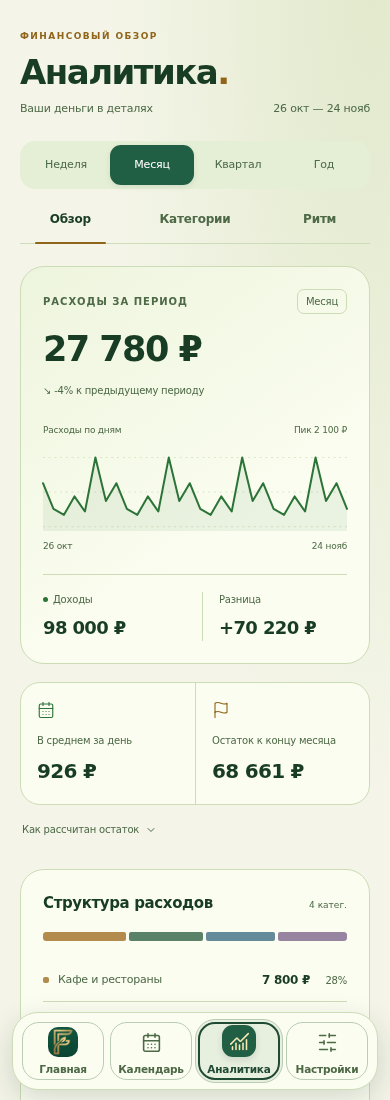
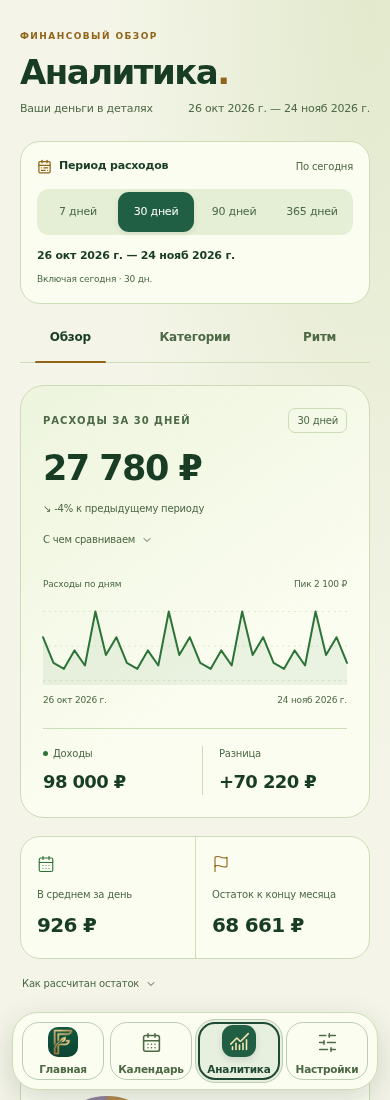
Refine behavioral insights, localize expense categories and clarify periods

diff --git a/behavior.js b/behavior.js
@@ -10,14 +10,21 @@
   const money=n=>`${Number(n).toLocaleString('ru-RU',{maximumFractionDigits:2})} ₽`;
   const date=d=>{if(FintexMath.ordinal(d)===null)return '—';const [y,m,day]=String(d).split('-');return `${day}.${m}.${y}`;};
   const period=(from,to)=>`${date(from)} — ${date(to)}`;
-  function evidence(e){return `<p class="behavior-evidence">Опора: ${e.samples} ${esc(e.unit)} · ${period(e.from,e.to)}<br>${esc(e.level)}. Это не статистическая гарантия.</p>`;}
+  function evidence(e, key='scenario'){return `<details class="behavior-proof" data-behavior-detail="${esc(key)}"><summary><i data-lucide="scan-text" aria-hidden="true"></i>Основа: ${e.samples} ${esc(e.unit)}<i data-lucide="chevron-down" aria-hidden="true"></i></summary><p class="behavior-evidence">${period(e.from,e.to)}<br>${esc(e.level)}. Это не статистическая гарантия.</p></details>`;}
+
   function feedback(id,data){
-    const f=data.feedback?.[id];return `<div class="behavior-feedback" role="group" aria-label="Оценить подсказку"><button type="button" data-behavior-useful="${esc(id)}" aria-pressed="${!!f?.useful}">${f?.useful?'✓ Полезно':'Полезно'}</button><button type="button" data-behavior-dismiss="${esc(id)}">Не актуально · скрыть на 30 дней</button></div>`;
+    const f=data.feedback?.[id];return `<div class="behavior-feedback" role="group" aria-label="Оценить подсказку"><button type="button" data-behavior-useful="${esc(id)}" aria-pressed="${!!f?.useful}">${f?.useful?'✓ Полезно':'Полезно'}</button><button type="button" data-behavior-dismiss="${esc(id)}" aria-label="Не актуально — скрыть на 30 дней">Не актуально</button></div>`;
   }
   function profile(result,data){
     const p=result.profile;
-    return `<div class="behavior-profile" aria-label="Профиль наблюдений"><div><span>Покупки выше привычного</span><strong>${p.unusual?`${p.unusual.count} за последние 30 дней`:'Недостаточно истории'}</strong><small>${p.unusual?`${period(p.unusual.from,p.unusual.to)} · ${p.unusual.comparable} покупок имеют базу сравнения. Не оценка импульсивности.`:'Нужны 30 расходов, история от 42 дней и сопоставимые покупки в категориях.'}</small></div><div><span>Разброс записанных расходов</span><strong>${p.spending?`${p.spending.spread}% между месяцами`:'Пока не оцениваем'}</strong><small>${p.spending?`${period(p.spending.from,p.spending.to)} · ${p.spending.months} полных месяцев. Описательный показатель расходов на день с записями, не оценка характера.`:'Нужны 3 полных месяца хотя бы с 12 днями расходов в каждом.'}</small></div><div><span>Регулярность пополнения подушки</span><strong>${p.saving?`${p.saving.positive} из ${p.saving.months} месяцев с чистым пополнением`:'Начинаем наблюдение'}</strong><small>${p.saving?`${period(p.saving.from,p.saving.to)} · Только наблюдаемые действия с подушкой внутри FINTEX. Внешние накопления не видны; полнота не подтверждена.`:`Учёт действий ведётся с ${date(data.observedSince||today())}; выводы — после 3 полных месяцев. Текущая сумма подушки не заменяет историю.`}</small></div></div>`;
+    const rows=[
+      {key:'unusual',icon:'scan-line',label:'Покупки выше привычного',value:p.unusual?`${p.unusual.count} за последние 30 дней`:'Недостаточно истории',copy:p.unusual?`${period(p.unusual.from,p.unusual.to)} · ${p.unusual.comparable} покупок имеют базу сравнения. Не оценка импульсивности.`:'Нужны 30 расходов, история от 42 дней и сопоставимые покупки в категориях.'},
+      {key:'spending',icon:'chart-no-axes-combined',label:'Разброс расходов',value:p.spending?`${p.spending.spread}% между месяцами`:'Пока не оцениваем',copy:p.spending?`${period(p.spending.from,p.spending.to)} · ${p.spending.months} полных месяцев. Описательный показатель расходов на день с записями, не оценка характера.`:'Нужны 3 полных месяца хотя бы с 12 днями расходов в каждом.'},
+      {key:'saving',icon:'sprout',label:'Пополнение подушки',value:p.saving?`${p.saving.positive} из ${p.saving.months} месяцев`:'Начинаем наблюдение',copy:p.saving?`${period(p.saving.from,p.saving.to)} · Месяцы с чистым пополнением. Только наблюдаемые действия с подушкой в приложении. Внешние накопления не видны; полнота не подтверждена.`:`Учёт действий ведётся с ${date(data.observedSince||today())}; выводы — после 3 полных месяцев. Текущая сумма подушки не заменяет историю.`}
+    ];
+    return `<div class="behavior-profile" aria-label="Профиль наблюдений">${rows.map(r=>`<details data-behavior-detail="profile-${r.key}"><summary><span class="behavior-profile-icon" aria-hidden="true"><i data-lucide="${r.icon}"></i></span><span class="behavior-profile-text"><span>${r.label}</span><strong>${r.value}</strong></span><i data-lucide="chevron-down" class="behavior-profile-chevron" aria-hidden="true"></i></summary><p class="behavior-evidence">${r.copy}</p></details>`).join('')}</div>`;
   }
+
   function planner(result,data){
     const p=result.planning,remaining=data.plan?.remaining??100000,monthly=data.plan?.monthly??'';
     let estimate='';
@@ -27,7 +34,7 @@
       if(Number(monthly)>p.monthly)estimate+='<p class="behavior-note">Ваш темп выше этого ориентира. Он может быть достижим — проверьте будущие доходы и обязательства, которых нет в журнале.</p>';
     }else if(result.planningReason==='nonpositive')estimate='<p class="behavior-copy">Истории уже достаточно для сравнения, но положительный ежемесячный темп по ней не подтверждён. Не будем рекомендовать сумму, которую эти записи не поддерживают. Вы можете сохранить собственный план и проверить его после новых наблюдений.</p>';
     else estimate='<p class="behavior-copy">Для персонального ориентира пока мало истории: нужны 3 полных месяца с поступлениями и хотя бы 12 днями расходов, либо 3 месяца наблюдения за подушкой. Пока можно сохранить собственный план — мы не будем выдавать его за рекомендацию.</p>';
-    return `<details class="behavior-planner"><summary>Проверить темп накоплений</summary><p class="behavior-copy">Мы не знаем, почему прошлый план изменился. Не делаем вывод «вы перестали откладывать из-за жёстких ограничений» без ваших данных.</p><form id="behavior-plan-form"><label>Осталось накопить, ₽<input name="remaining" inputmode="decimal" value="${esc(remaining)}" required></label><label>Ваш темп в месяц, ₽<input name="monthly" inputmode="decimal" value="${esc(monthly)}" placeholder="Укажите комфортную сумму" required></label><button type="submit" class="behavior-primary">Сохранить мой план</button></form>${estimate}${data.plan?`<p class="behavior-evidence">Ваш план сохранён ${date(data.plan.date)}. ${data.planChanges>1?`Вы явно меняли его ${Math.min(data.planChanges-1,999)} раз; это не считается ошибкой.`:''} Баланс и цель в разделе подушки не меняются.</p>`:''}</details>`;
+    return `<details class="behavior-planner" data-behavior-detail="planner"><summary>Проверить темп накоплений</summary><p class="behavior-copy">Сравните свой план с доступной историей. Это сценарий для размышления, не обязательство и не гарантия результата.</p><form id="behavior-plan-form"><label>Осталось накопить, ₽<input name="remaining" inputmode="decimal" value="${esc(remaining)}" required></label><label>Ваш темп в месяц, ₽<input name="monthly" inputmode="decimal" value="${esc(monthly)}" placeholder="Укажите комфортную сумму" required></label><button type="submit" class="behavior-primary">Сохранить мой план</button></form>${estimate}${data.plan?`<p class="behavior-evidence">Ваш план сохранён ${date(data.plan.date)}. ${data.planChanges>1?`Вы явно меняли его ${Math.min(data.planChanges-1,999)} раз; это не считается ошибкой.`:''} Баланс и цель в разделе подушки не меняются.</p>`:''}</details>`;
   }
   function entryHTML(){
     const data=initial();
@@ -38,9 +45,9 @@
     if(current){const horizon=FintexMath.ordinal(state.payday)===null?0:FintexMath.ordinal(state.payday)-FintexMath.ordinal(today());const estimate=horizon>0&&horizon<=45?` Если такой темп записанных трат сохранится ещё ${horizon} дней до указанной вами даты зарплаты, это около ${money(FintexMath.money(current.dailyRate*horizon))} расходов. Будущие доходы и изменения планов не учтены.`:'';
       currentHTML=`<article class="behavior-scenario"><span class="behavior-tag">Похожий сценарий сейчас</span><h4>Первые дни после зарплаты</h4><p>За ${current.days} дня записано ${money(current.spent)} — ${current.share}% отмеченной зарплаты. В сравнимые дни прошлых интервалов медиана — ${money(current.typical)}.${estimate}</p>${evidence(current.evidence)}<p class="behavior-note">Условный сценарий, не прогноз остатка и не предупреждение о неизбежной нехватке денег.</p></article>`;
     }
-    const observations=result.insights.map(i=>`<article class="behavior-insight"><span class="behavior-tag">Повторяющаяся закономерность</span><h4>${esc(i.title)}</h4><p>${esc(i.text)}</p>${evidence(i.evidence)}<p class="behavior-note">${esc(i.suggestion)}</p>${feedback(i.id,data)}</article>`).join('');
-    const unusual=result.unusual.map(t=>`<article class="behavior-unusual"><h4>${esc(t.merchant)}</h4><p class="money-val">${money(t.amount)} · ${date(t.date)}. Примерно в ${t.multiple.toFixed(1)} раза больше медианы ${money(t.baseline)} в этой категории.</p><p class="behavior-evidence">Сравнение с ${t.count} более ранними покупками · ${period(t.from,t.date)}. Это необычная сумма, не доказательство импульсивности.</p><button type="button" data-behavior-planned="${esc(t.id)}">Было запланировано</button></article>`).join('');
-    return `<section id="fintex-behavior" class="behavior-panel"><div class="behavior-heading"><span class="behavior-tag">FINTEX · Поведенческий интеллект</span><h3>Понять свой финансовый ритм</h3><p class="behavior-copy">Не характер и не диагноз — только наблюдения по вашим записям.</p></div><p class="behavior-period">${period(result.from,result.to)} · ${result.records} записей · ${result.activeDays} дней с расходами<br>Окно наблюдений — до 183 дней, независимо от фильтра аналитики.</p>${profile(result,data)}${currentHTML}<div class="behavior-insights">${observations||'<p class="behavior-empty">Повторяющиеся закономерности пока не подтверждены. Пустой список — не оценка вашего поведения. По мере появления сопоставимых недель и месяцев здесь появятся объяснимые наблюдения.</p>'}</div>${result.hiddenCount?`<p class="behavior-evidence">${result.hiddenCount} подсказок скрыто по вашему выбору.</p><button type="button" data-behavior-restore>Показать скрытые подсказки</button>`:''}${unusual?`<details class="behavior-unusual-list" open><summary>Покупки выше привычного</summary>${unusual}</details>`:''}${planner(result,data)}<p class="behavior-footnote">${esc(result.caveat)} Реакции меняют порядок и частоту подсказок, а не достоверность фактов. Молчание не считается согласием.</p><details class="behavior-settings"><summary>Данные и управление</summary><p class="behavior-copy">Вычисления и обратная связь хранятся в этом браузере, не отправляются внешнему ИИ. Облачный журнал может быть неполным. История пополнений подушки начинается после включения функции; прошлое не восстанавливаем по текущему остатку.</p><div class="behavior-feedback"><button type="button" data-behavior-disable>Отключить наблюдения</button><button type="button" data-behavior-reset>Сбросить память подсказок</button></div><p class="behavior-evidence">Сброс удалит только реакции, отметки «запланировано», план и историю наблюдений за подушкой. Суммы на счетах и операции останутся.</p></details><p class="behavior-status" role="status" aria-live="polite"></p></section>`;
+    const observations=result.insights.map((i,index)=>`<article class="behavior-insight"><div class="behavior-insight-heading"><span class="behavior-observation-number">${String(index+1).padStart(2,'0')}</span><span class="behavior-tag">Наблюдение по записям</span></div><h4>${esc(i.title)}</h4><p>${esc(i.text)}</p>${evidence(i.evidence, i.id)}<p class="behavior-note">${esc(i.suggestion)}</p>${feedback(i.id,data)}</article>`).join('');
+    const unusual=result.unusual.map(t=>`<article class="behavior-unusual"><h4>${esc(t.merchant)}</h4><p class="money-val">${money(t.amount)} · ${date(t.date)}. Примерно в ${t.multiple.toFixed(1).replace('.',',')} раза больше медианы ${money(t.baseline)} в этой категории.</p><p class="behavior-evidence">Сравнение с ${t.count} более ранними покупками · ${period(t.from,t.date)}. Это необычная сумма, не доказательство импульсивности.</p><button type="button" data-behavior-planned="${esc(t.id)}">Было запланировано</button></article>`).join('');
+    return `<section id="fintex-behavior" class="behavior-panel"><div class="behavior-heading"><div class="behavior-title-line"><span class="behavior-emblem" aria-hidden="true"><i data-lucide="sparkles"></i></span><span class="behavior-tag">Личные наблюдения</span></div><h3>Поведенческий<br>интеллект<span aria-hidden="true">.</span></h3><p class="behavior-copy">Замечаем повторения в расходах.<br>Без оценок характера и диагнозов.</p></div><div class="behavior-window"><i data-lucide="calendar-range" aria-hidden="true"></i><div><strong>${period(result.from,result.to)}</strong><span>Своя история до 183 дней · не зависит от периода выше</span></div></div><div class="behavior-metrics"><div><strong>${result.insights.length}</strong><span>наблюдений</span></div><div><strong>${result.records}</strong><span>записей</span></div><div><strong>${result.activeDays}</strong><span>дней с тратами</span></div></div>${profile(result,data)}${currentHTML}<div class="behavior-insights">${observations||'<p class="behavior-empty">Повторяющиеся закономерности пока не подтверждены. Пустой список — не оценка вашего поведения. По мере появления сопоставимых недель и месяцев здесь появятся объяснимые наблюдения.</p>'}</div>${result.hiddenCount?`<p class="behavior-evidence">${result.hiddenCount} подсказок скрыто по вашему выбору.</p><button type="button" data-behavior-restore>Показать скрытые подсказки</button>`:''}${unusual?`<details class="behavior-unusual-list" data-behavior-detail="unusual" open><summary>Покупки выше привычного</summary>${unusual}</details>`:''}${planner(result,data)}<details class="behavior-method" data-behavior-detail="method"><summary>Как читать наблюдения</summary><p class="behavior-footnote">${esc(result.caveat)} Реакции меняют порядок и частоту подсказок, а не достоверность фактов. Молчание не считается согласием.</p></details><details class="behavior-settings" data-behavior-detail="settings"><summary>Данные и управление</summary><p class="behavior-copy">Вычисления и обратная связь хранятся в этом браузере, не отправляются внешнему ИИ. Облачный журнал может быть неполным. История пополнений подушки начинается после включения функции; прошлое не восстанавливаем по текущему остатку.</p><div class="behavior-feedback"><button type="button" data-behavior-disable>Отключить наблюдения</button><button type="button" data-behavior-reset>Сбросить память подсказок</button></div><p class="behavior-evidence">Сброс удалит только реакции, отметки «запланировано», план и историю наблюдений за подушкой. Суммы на счетах и операции останутся.</p></details><p class="behavior-status" role="status" aria-live="polite"></p></section>`;
   }
   function rerender(note){window.FintexAnalyticsPro?.render();const el=document.querySelector('#fintex-behavior .behavior-status');if(el)el.textContent=note;}
   function bind(container){

diff --git a/analytics_pro.js b/analytics_pro.js
@@ -5,10 +5,10 @@
   'use strict';
 
   const PERIODS = [
-    { id: 'week', label: 'Неделя', days: 7 },
-    { id: 'month', label: 'Месяц', days: 30 },
-    { id: 'quarter', label: 'Квартал', days: 90 },
-    { id: 'year', label: 'Год', days: 365 }
+    { id: 'week', label: '7 дней', days: 7 },
+    { id: 'month', label: '30 дней', days: 30 },
+    { id: 'quarter', label: '90 дней', days: 90 },
+    { id: 'year', label: '365 дней', days: 365 }
   ];
   const SUBTABS = [
     { id: 'overview', label: 'Обзор' },
@@ -75,7 +75,11 @@
     return `${Math.round(Number(num) || 0).toLocaleString('ru-RU')} ${currency || '₽'}`;
   }
   function categoryMeta(rawName) {
-    const raw = String(rawName || 'Прочее').trim();
+    const aliases = { food: 'Продукты', taxi: 'Транспорт', cafe: 'Кафе и рестораны', fun: 'Развлечения', subs: 'Подписки', shop: 'Покупки', health: 'Здоровье', other: 'Прочее', income: 'Доход' };
+    const original = String(rawName || 'Прочее').trim();
+    const key = original.toLowerCase();
+    const raw = Object.prototype.hasOwnProperty.call(aliases, key) ? aliases[key] : original;
+    if (raw.toLocaleLowerCase('ru-RU') === 'подписки') return { name: 'Подписки', icon: 'repeat', color: 'var(--ap-category-7)' };
     const normalized = raw.toLocaleLowerCase('ru-RU');
     if (normalized === 'доход' || normalized === 'income') return { name: 'Доход', icon: 'wallet', color: COLORS.mint, bg: 'rgba(0,214,195,.13)' };
     const match = CATEGORY_META.find(meta => meta.keys.some(key => normalized.includes(key)));
@@ -139,7 +143,7 @@
     const start=new Date(`${startKey}T00:00:00`);
     const prevStart=new Date(`${prevKey}T00:00:00`);
     let spent = 0, income = 0, prevSpent = 0;
-    const byCat = {};
+    const byCat = Object.create(null);
     const byWeekday = [0, 0, 0, 0, 0, 0, 0];
     const byDate = {};
     const activeDates = new Set();
@@ -163,7 +167,7 @@
         byWeekday[date.getDay()] = M.add(byWeekday[date.getDay()],amount);
         if (!byDate[dateKey]) byDate[dateKey] = { total: 0, list: [] };
         byDate[dateKey].total = M.add(byDate[dateKey].total,amount);
-        byDate[dateKey].list.push({ title: tx.merchant || tx.title || tx.note || tx.category || 'Покупка', amount, category: tx.category || 'Прочее' });
+        byDate[dateKey].list.push({ title: tx.merchant || tx.title || tx.note || categoryMeta(tx.category).name || 'Покупка', amount, category: tx.category || 'Прочее' });
         const meta = categoryMeta(tx.category || 'Прочее');
         const key = meta.name;
         if (!byCat[key]) byCat[key] = { total: 0, items: [], meta };
@@ -208,9 +212,11 @@
     return { st, currency, now, spent, income, net: M.add(income,-spent), deltaPct, prevSpent, burnRate, projectedBalance, categories, insights, byWeekday, weekdayNames, byDate, activeDates, currentTxs, allTxs: M.transactions(st.transactions,null,today) };
   }
 
-  function renderPeriodControls() {
-    return `<div class="ftx-ap-pills" role="group" aria-label="Период аналитики">${PERIODS.map(p => `<button type="button" class="ftx-ap-pill ${p.id === activePeriod ? 'active' : ''}" data-period="${p.id}" aria-pressed="${p.id === activePeriod}">${p.label}</button>`).join('')}</div>`;
+  function renderPeriodControls(data, period) {
+    const range = periodRange(data, period);
+    return `<div class="ap-period-panel"><div class="ap-period-title"><span><i data-lucide="calendar-range" aria-hidden="true"></i>Период расходов</span><span>По сегодня</span></div><div class="ftx-ap-pills" role="group" aria-label="Период аналитики">${PERIODS.map(p => `<button type="button" class="ftx-ap-pill ${p.id === activePeriod ? 'active' : ''}" data-period="${p.id}" aria-pressed="${p.id === activePeriod}">${p.label}</button>`).join('')}</div><div class="ap-period-dates"><strong>${range.first} — ${range.last}</strong><span>Включая сегодня · ${period.days} дн.</span></div></div>`;
   }
+
   function renderTabs() {
     return `<div class="ftx-ap-tabs" role="tablist" aria-label="Разделы аналитики">${SUBTABS.map(t => `<button type="button" class="ftx-ap-tab ${t.id === activeSubtab ? 'active' : ''}" data-subtab="${t.id}" role="tab" aria-selected="${t.id === activeSubtab}">${t.label}</button>`).join('')}</div>`;
   }
@@ -218,7 +224,7 @@
   function periodRange(data, period) {
     const end = window.FintexMath.key(data.now);
     const start = window.FintexMath.shift(end, 1 - period.days);
-    const label = key => new Date(`${key}T12:00:00`).toLocaleDateString('ru-RU', { day: 'numeric', month: 'short' }).replace('.', '');
+    const label = key => new Date(`${key}T12:00:00`).toLocaleDateString('ru-RU', { day: 'numeric', month: 'short', year: 'numeric' }).replace('.', '');
     return { start, end, first: label(start), last: label(end) };
   }
 
@@ -237,18 +243,33 @@
     </figure>`;
   }
 
+  function renderDistribution(data) {
+    if (!data.categories.length) return '<div class="ftx-ap-empty"><i data-lucide="chart-pie" aria-hidden="true"></i><strong>У каждой траты будет своё место</strong><span>Добавьте расходы, чтобы увидеть их распределение по категориям</span></div>';
+    let offset = 0;
+    const segments = data.categories.map(cat => {
+      const circle = `<circle class="ap-donut-segment" cx="64" cy="64" r="52" pathLength="100" stroke="${cat.meta.color}" stroke-dasharray="${cat.pct} ${100 - cat.pct}" stroke-dashoffset="${-offset}"/>`;
+      offset += cat.pct;
+      return circle;
+    }).join('');
+    const leader = data.categories[0];
+    return `<div class="ap-distribution-visual"><div class="ap-donut" role="img" aria-label="Распределение записанных расходов по ${data.categories.length} категориям"><svg viewBox="0 0 128 128" aria-hidden="true"><circle class="ap-donut-track" cx="64" cy="64" r="52"/>${segments}</svg><div class="ap-donut-centre" aria-hidden="true"><strong>${data.categories.length}</strong><span>категорий</span></div></div><div class="ap-distribution-leader"><span>Больше всего</span><strong>${esc(leader.name)}</strong><div><b>${Math.round(leader.pct)}%</b><span>от расходов</span></div></div></div>`;
+  }
+
   function renderOverview(data, period) {
     const deltaLabel = data.prevSpent > 0
       ? `${data.deltaPct > 0 ? '+' : ''}${data.deltaPct}% к предыдущему периоду`
       : 'Пока нет данных для сравнения';
     const deltaClass = data.deltaPct > 0 ? 'warn' : '';
+    const range = periodRange(data, period);
+    const previous = periodRange({ now: new Date(`${FintexMath.shift(range.start, -1)}T12:00:00`) }, period);
     const topCats = data.categories.slice(0, 4).map(cat => `
-      <div class="ap-category-row"><span class="ap-category-dot" style="background:${cat.meta.color}"></span><span class="ap-category-name">${esc(cat.name)}</span><span class="ap-category-amount money-val">${fmt(cat.total, data.currency)}</span><span class="ap-category-share">${Math.round(cat.pct)}%</span></div>`).join('');
+      <div class="ap-category-row"><span class="ap-category-dot" style="background:${cat.meta.color}"></span><span class="ap-category-name">${esc(cat.name)}</span><span class="ap-category-amount money-val">${fmt(cat.total, data.currency)}</span><span class="ap-category-share">${Math.round(cat.pct)}%</span><div class="ap-category-rail" aria-hidden="true"><span style="width:${cat.pct}%;background:${cat.meta.color}"></span></div></div>`).join('');
     return `
       <div class="ftx-ap-card gold ap-expense-hero">
-        <div class="ap-hero-heading"><div class="ftx-ap-kicker">Расходы за период</div><span class="ap-period-caption">${period.label}</span></div>
+        <div class="ap-hero-heading"><div class="ftx-ap-kicker">Расходы за ${period.days} дней</div><span class="ap-period-caption">${period.label}</span></div>
         <div class="ftx-ap-big money-val">${fmt(data.spent, data.currency)}</div>
         <span class="ftx-ap-delta ${deltaClass}">${data.deltaPct > 0 ? '↗' : data.deltaPct < 0 ? '↘' : '—'} ${esc(deltaLabel)}</span>
+        <details class="ap-comparison"><summary>С чем сравниваем <i data-lucide="chevron-down" aria-hidden="true"></i></summary><p>Предыдущие ${period.days} дн.: ${previous.first} — ${previous.last}</p><strong class="money-val">${fmt(data.prevSpent, data.currency)}</strong><p>Периоды равной длины и не пересекаются. Учитываются только записанные операции.</p></details>
         ${renderExpenseTrend(data, period)}
         <div class="ap-flow-summary">
           <div><div class="ftx-ap-stat-label"><span class="ap-flow-dot"></span>Доходы</div><div class="ap-flow-value money-val">${fmt(data.income, data.currency)}</div></div>
@@ -262,7 +283,10 @@
       <details class="ap-forecast-method"><summary>Как рассчитан остаток <i data-lucide="chevron-down" aria-hidden="true"></i></summary><p class="ftx-ap-note">Оценка: текущий остаток минус обычные расходы на оставшиеся дни месяца и неоплаченные платежи до его конца. Новые доходы не прогнозируются.</p></details>
       <div class="ftx-ap-card ap-distribution">
         <div class="ftx-ap-section-title"><span>Структура расходов</span><span class="ftx-ap-section-sub">${data.categories.length ? data.categories.length + ' катег.' : 'Нет операций'}</span></div>
-        ${data.categories.length ? `<div class="ap-composition" aria-hidden="true">${data.categories.map(cat => `<span style="width:${cat.pct}%;background:${cat.meta.color}"></span>`).join('')}</div>${topCats}<button type="button" class="ftx-ap-btn ap-category-link" data-goto="categories">Все категории <span aria-hidden="true">↗</span></button>` : '<div class="ftx-ap-empty"><i data-lucide="layers" aria-hidden="true"></i><strong>Каждая трата — часть картины</strong><span>Добавьте расходы, чтобы увидеть их распределение по категориям</span></div>'}
+        ${renderDistribution(data)}
+        ${topCats}
+        ${data.categories.length > 4 ? `<p class="ap-distribution-rest">Ещё ${data.categories.length - 4} катег. · ${fmt(FintexMath.sum(data.categories.slice(4), c => c.total), data.currency)}</p>` : ''}
+        ${data.categories.length ? '<button type="button" class="ftx-ap-btn ap-category-link" data-goto="categories">Разобрать по категориям <span aria-hidden="true">↗</span></button>' : ''}
       </div>
       <div class="ftx-ap-card ap-observations">
         <div class="ftx-ap-section-title"><span>Главное за период</span><span class="ftx-ap-section-sub">По вашим записям</span></div>
@@ -272,11 +296,11 @@
   }
 
   function renderCategories(data) {
-    if (!data.categories.length) return `<div class="ftx-ap-card"><div class="ftx-ap-empty">За выбранный период расходов пока нет.<br>Добавьте операцию — и FINTEX покажет, на что уходят деньги.</div></div>`;
+    if (!data.categories.length) return `<div class="ftx-ap-card"><div class="ftx-ap-empty">За выбранный период расходов пока нет.<br>Добавьте операцию — и приложение покажет, на что уходят деньги.</div></div>`;
     return `
       <div class="ftx-ap-card">
         <div class="ftx-ap-section-title"><span>Структура расходов</span><span class="ftx-ap-section-sub">${data.categories.length} катег.</span></div>
-        <div class="ap-category-hint">Нажмите на категорию, чтобы посмотреть операции внутри неё.</div>
+        ${renderDistribution(data)}<div class="ap-category-hint">Нажмите на категорию, чтобы посмотреть операции внутри неё.</div>
         ${data.categories.map(cat => {
           const isOpen = expandedCategory === cat.name;
           const meta = cat.meta;
@@ -291,7 +315,7 @@
           </div>`;
         }).join('')}
       </div>
-      <div class="ftx-ap-note">Категории сгруппированы по названию операции. Неизвестные названия сохраняются как есть — FINTEX не приписывает им неподтверждённый смысл.</div>`;
+      <div class="ftx-ap-note">Категории сгруппированы по названию операции. Неизвестные названия сохраняются как есть — приложение не приписывает им неподтверждённый смысл.</div>`;
   }
 
   function renderWeekdayRhythm(data) {
@@ -332,7 +356,7 @@
       if (!map[key]) map[key] = { total: 0, list: [] };
       const amount = Math.abs(Number(tx.amount) || 0);
       map[key].total += amount;
-      map[key].list.push({ title: tx.merchant || tx.title || tx.category || 'Покупка', amount });
+      map[key].list.push({ title: tx.merchant || tx.title || categoryMeta(tx.category).name || 'Покупка', amount });
     });
     const totals = Object.values(map).map(item => item.total).filter(Boolean);
     const max = Math.max(1, ...totals);
@@ -378,7 +402,7 @@
         <button type="button" class="section-action" data-tool="prices"><span><strong>Цены по чекам</strong><small>Сравнение ваших покупок</small></span><span aria-hidden="true">→</span></button>
         <button type="button" class="section-action" data-tool="limits"><span><strong>Лимиты категорий</strong><small>Настроить бюджет на расходы</small></span><span aria-hidden="true">→</span></button>
         <button type="button" class="section-action" data-act="sim"><span><strong>Дерево будущего</strong><small>Сценарии личных финансов</small></span><span aria-hidden="true">→</span></button>
-        <button type="button" class="section-action" data-act="stories"><span><strong>Итоги в Stories</strong><small>Короткий отчёт за период</small></span><span aria-hidden="true">→</span></button>
+        <button type="button" class="section-action" data-act="stories"><span><strong>Итоги периода</strong><small>Короткий отчёт за период</small></span><span aria-hidden="true">→</span></button>
       </div></details>`;
   }
 
@@ -397,6 +421,7 @@
     injectStyles();
     const focused = container.contains(document.activeElement) ? document.activeElement : null;
     const focusKey = focused && ['period','subtab','cat','hdate','goto'].map(key => focused.hasAttribute(`data-${key}`) ? [key, focused.getAttribute(`data-${key}`)] : null).find(Boolean);
+    const behaviorDisclosures = new Map([...container.querySelectorAll('#fintex-behavior details[data-behavior-detail]')].map(el => [el.dataset.behaviorDetail, el.open]));
     const previousTools = container.querySelector('#analytics-tools');
     if (previousTools) toolsOpen = previousTools.open;
     const period = PERIODS.find(p => p.id === activePeriod) || PERIODS[1];
@@ -406,11 +431,12 @@
     else if (activeSubtab === 'categories') body = renderCategories(data);
     else body = renderRhythm(data);
 
-    container.innerHTML = `<div class="page-heading ap-page-heading"><div class="ap-eyebrow">ФИНАНСОВЫЙ ОБЗОР</div><h2>Аналитика<span aria-hidden="true">.</span></h2><p>Ваши деньги в деталях <span class="ap-date-range">${periodRange(data, period).first} — ${periodRange(data, period).last}</span></p></div><div class="ftx-ap">${renderPeriodControls()}${renderTabs()}${body}</div>${window.FintexBehavior?.entryHTML() || ''}${renderTools()}${window.FintexInvestments?.entryHTML() || ''}`;
+    container.innerHTML = `<div class="page-heading ap-page-heading"><div class="ap-eyebrow">ФИНАНСОВЫЙ ОБЗОР</div><h2>Аналитика<span aria-hidden="true">.</span></h2><p>Ваши деньги в деталях <span class="ap-date-range">${periodRange(data, period).first} — ${periodRange(data, period).last}</span></p></div><div class="ftx-ap">${renderPeriodControls(data, period)}${renderTabs()}${body}</div>${window.FintexBehavior?.entryHTML() || ''}${renderTools()}${window.FintexInvestments?.entryHTML() || ''}`;
     if (focusKey) {
       const next = [...container.querySelectorAll(`[data-${focusKey[0]}]`)].find(el => el.getAttribute(`data-${focusKey[0]}`) === focusKey[1]);
       next?.focus({ preventScroll: true });
     }
+    container.querySelectorAll('#fintex-behavior details[data-behavior-detail]').forEach(el => { if (behaviorDisclosures.has(el.dataset.behaviorDetail)) el.open = behaviorDisclosures.get(el.dataset.behaviorDetail); });
     window.FintexBehavior?.bind(container);
     container.querySelector('#analytics-tools').addEventListener('toggle', event => { toolsOpen = event.target.open; });
     const toolActions = { purchase: () => window.openCanIBuyModal?.(), prices: () => window.openPriceTrackerModal?.(), limits: () => window.openCatLimitModal?.() };

diff --git a/design-system.css b/design-system.css
@@ -1279,3 +1279,106 @@ html[data-visual-style='sapphire'] body .ftx-ap { --ap-category-1: #4875a0; --ap
 html[data-visual-style='growth'] body .ftx-ap { --ap-category-1: #557a8d; --ap-category-2: #c59473; --ap-category-3: #7ba7a1; --ap-category-4: #9fa278; --ap-category-5: #a28e9d; }
 html.dark body .ftx-ap { --ap-category-1: #92b696; --ap-category-2: #d2b477; --ap-category-3: #8cb3c5; --ap-category-4: #b7c196; --ap-category-5: #b7a0c6; --ap-category-6: #d5a198; --ap-category-7: #adaed0; --ap-category-8: #92bab4; --ap-category-9: #c6ad87; --ap-category-10: #a8b49c; --ap-category-11: #9ba49a; }
 body .ftx-ap .ap-no-records { font-size: 11px; line-height: 1.6; padding: 5px 0; color: var(--text-secondary); }
+
+/* v52 · Russian-first spending period, category composition and personal observations. */
+body .ap-period-panel { padding: 16px; margin-bottom: 22px; background: var(--surface-1); border: 1px solid var(--border-subtle); border-radius: 20px; }
+body .ap-period-title, body .ap-period-dates { display: flex; align-items: center; justify-content: space-between; flex-wrap: wrap; gap: 8px; font-size: 10px; color: var(--text-secondary); }
+body .ap-period-title > span:first-child { display: flex; align-items: center; gap: 7px; color: var(--text-primary); font-weight: 650; font-size: 11px; }
+body .ap-period-title svg { width: 15px; height: 15px; color: var(--gold); }
+body .ftx-ap .ap-period-panel .ftx-ap-pills { margin: 14px 0 12px; padding: 3px; background: var(--surface-2); border-radius: 12px; }
+body .ftx-ap .ap-period-panel .ftx-ap-pill { min-height: 40px; font-size: 11px; }
+body .ap-period-dates { font-size: 9px; line-height: 1.6; }
+body .ap-period-dates strong { font-size: 11px; font-weight: 600; color: var(--text-primary); }
+body .ap-comparison { color: var(--text-secondary); margin-top: 8px; }
+body .ap-comparison summary { display: flex; align-items: center; gap: 6px; min-height: 28px; list-style: none; font-size: 10px; cursor: pointer; }
+body .ap-comparison summary::-webkit-details-marker { display: none; }
+body .ap-comparison svg { width: 12px; height: 12px; }
+body .ap-comparison[open] summary svg { transform: rotate(180deg); }
+body .ap-comparison p { font-size: 10px; line-height: 1.7; margin: 8px 0; }
+body .ap-comparison strong { display: block; font-size: 16px; font-weight: 600; color: var(--number-ink, var(--text-primary)); }
+body .ap-distribution-visual { display: grid; grid-template-columns: 128px minmax(0,1fr); align-items: center; gap: 20px; padding: 4px 0 22px; margin-bottom: 4px; border-bottom: 1px solid var(--border-subtle); }
+body .ap-donut { width: 128px; height: 128px; position: relative; }
+body .ap-donut > svg { width: 100%; height: 100%; transform: rotate(-90deg); }
+body .ap-donut circle { fill: none; stroke-width: 12px; }
+body .ap-donut-track { stroke: var(--surface-2); }
+body .ap-donut-centre { position: absolute; inset: 0; display: flex; flex-direction: column; align-items: center; justify-content: center; gap: 3px; }
+body .ap-donut-centre strong { font-size: 28px; line-height: 1.2; font-weight: 600; letter-spacing: -.04em; color: var(--number-ink, var(--text-primary)); }
+body .ap-donut-centre > span { font-size: 9px; color: var(--text-secondary); }
+body .ap-distribution-leader > span { font-size: 9px; color: var(--text-secondary); }
+body .ap-distribution-leader > strong { display: block; font-size: 14px; font-weight: 650; margin: 8px 0; overflow-wrap: anywhere; line-height: 1.4; color: var(--text-primary); }
+body .ap-distribution-leader > div { display: flex; align-items: baseline; flex-wrap: wrap; gap: 5px; }
+body .ap-distribution-leader b { font-size: 24px; font-weight: 600; letter-spacing: -.035em; color: var(--gold); }
+body .ap-distribution-leader div > span { font-size: 9px; color: var(--text-secondary); }
+body .ap-category-row { padding: 14px 0; row-gap: 10px; border: 0; }
+body .ap-category-rail { grid-column: 2 / -1; background: var(--surface-2); border-radius: 2px; height: 3px; overflow: hidden; }
+body .ap-category-rail > span { display: block; height: 100%; border-radius: 2px; }
+body .ap-category-name { white-space: normal; line-height: 1.5; }
+body .ap-distribution-rest { color: var(--text-secondary); font-size: 10px; line-height: 1.6; margin: 8px 0 0; }
+body .ftx-ap .ap-category-link { border-top: 1px solid var(--border-subtle); margin-top: 10px; color: var(--accent); }
+body .ftx-ap .ap-category-hint { margin-top: 18px; }
+body .behavior-panel { padding: 0; border: 0; border-radius: 0; background: transparent; margin: 32px 0 24px; }
+body .behavior-heading { padding: 24px; border-radius: 24px; background: var(--hero-wash), var(--surface-1); border: 1px solid var(--border-subtle); }
+body .behavior-title-line { display: flex; gap: 10px; align-items: center; margin-bottom: 18px; }
+body .behavior-emblem { display: grid; place-items: center; width: 32px; height: 32px; border: 1px solid var(--border-active); background: var(--surface-2); border-radius: 11px; color: var(--gold); }
+body .behavior-emblem svg { width: 17px; height: 17px; stroke-width: 1.5; }
+body .behavior-heading .behavior-tag { color: var(--gold); font-size: 9px; letter-spacing: .12em; }
+body .behavior-heading h3 { font-size: 29px; font-weight: 650; line-height: 1.14; letter-spacing: -.045em; margin: 0 0 14px; }
+body .behavior-heading h3 > span { color: var(--gold); }
+body .behavior-heading .behavior-copy { font-size: 12px; line-height: 1.7; margin: 0; }
+body .behavior-window { display: flex; gap: 9px; align-items: center; padding: 18px 4px; color: var(--text-secondary); }
+body .behavior-window > svg { width: 16px; height: 16px; flex-shrink: 0; color: var(--gold); }
+body .behavior-window strong { display: block; font-size: 11px; font-weight: 550; }
+body .behavior-window span { display: block; font-size: 9px; line-height: 1.6; margin-top: 5px; }
+body .behavior-metrics { display: grid; grid-template-columns: repeat(3,minmax(0,1fr)); border-block: 1px solid var(--border-subtle); padding: 16px 0; margin-bottom: 20px; }
+body .behavior-metrics > div { padding: 0 12px; }
+body .behavior-metrics > div + div { border-left: 1px solid var(--border-subtle); }
+body .behavior-metrics strong { font-size: 26px; font-weight: 600; letter-spacing: -.045em; color: var(--number-ink, var(--text-primary)); }
+body .behavior-metrics span { display: block; color: var(--text-secondary); font-size: 9px; margin-top: 4px; line-height: 1.5; }
+body .behavior-profile { background: var(--surface-1); border: 1px solid var(--border-subtle); padding: 0 16px; border-radius: 20px; margin-bottom: 22px; }
+body .behavior-profile > details + details { border-top: 1px solid var(--border-subtle); }
+body .behavior-profile summary { display: flex; align-items: center; gap: 11px; padding: 16px 0; list-style: none; }
+body .behavior-profile summary::-webkit-details-marker { display: none; }
+body .behavior-profile .behavior-profile-icon { display: grid; place-items: center; background: var(--surface-2); border-radius: 10px; width: 32px; height: 32px; flex-shrink: 0; color: var(--accent); }
+body .behavior-profile-icon > svg { width: 16px; height: 16px; stroke-width: 1.5; }
+body .behavior-profile .behavior-profile-text { flex: 1; min-width: 0; }
+body .behavior-profile .behavior-profile-text > span { font-size: 10px; font-weight: 450; }
+body .behavior-profile strong { font-size: 13px; font-weight: 600; line-height: 1.5; margin: 4px 0 0; }
+body .behavior-profile .behavior-profile-chevron { width: 13px; height: 13px; flex-shrink: 0; color: var(--text-secondary); }
+body .behavior-profile details[open] .behavior-profile-chevron { transform: rotate(180deg); }
+body .behavior-insight { background: var(--surface-1); border: 1px solid var(--border-subtle); border-radius: 20px; padding: 20px; margin: 14px 0; }
+body .behavior-insight-heading { display: flex; align-items: center; gap: 9px; }
+body .behavior-observation-number { font-size: 10px; font-weight: 600; color: var(--gold); border-bottom: 1px solid var(--gold); padding-bottom: 3px; }
+body .behavior-insight .behavior-tag { font-size: 8px; color: var(--text-secondary); letter-spacing: .06em; }
+body .behavior-insight h4 { margin: 14px 0 10px; font-size: 19px; line-height: 1.35; font-weight: 600; letter-spacing: -.03em; }
+body .behavior-insight > p, body .behavior-scenario > p { font-size: 12px; line-height: 1.8; color: var(--text-secondary); }
+body .behavior-panel .behavior-note { border-left: 2px solid var(--gold); border-radius: 0 10px 10px 0; padding: 12px; margin-top: 14px; color: var(--text-primary); background: var(--surface-2); }
+body .behavior-scenario { padding: 20px; margin: 20px 0; border-radius: 20px; }
+body .behavior-panel .behavior-proof { padding-top: 6px; }
+body .behavior-proof summary { display: flex; align-items: center; gap: 7px; font-size: 10px; min-height: 40px; font-weight: 450; color: var(--text-secondary); list-style: none; padding: 8px 0; }
+body .behavior-proof summary::-webkit-details-marker { display: none; }
+body .behavior-proof summary > svg { width: 12px; height: 12px; flex-shrink: 0; }
+body .behavior-proof summary > svg:last-child { margin-left: auto; }
+body .behavior-proof[open] summary > svg:last-child { transform: rotate(180deg); }
+body .behavior-feedback { padding-top: 12px; border-top: 1px solid var(--border-subtle); gap: 8px; }
+body .behavior-feedback button { flex: 1; text-align: center; font-size: 10px; border-radius: 10px; padding: 9px; background: transparent; }
+body .behavior-feedback button[data-behavior-useful] { background: var(--surface-2); }
+body .behavior-panel .behavior-primary { background: var(--nav-icon-bg); color: var(--nav-icon-ink); border-radius: 12px; }
+body .behavior-method { border-top: 1px solid var(--border-subtle); margin-top: 16px; }
+body .behavior-panel :is(.behavior-method, .behavior-settings, .behavior-planner, .behavior-unusual-list) > summary { display: flex; align-items: center; justify-content: space-between; gap: 8px; min-height: 48px; list-style: none; font-size: 12px; }
+body .behavior-panel :is(.behavior-method, .behavior-settings, .behavior-planner, .behavior-unusual-list) > summary::-webkit-details-marker { display: none; }
+body .behavior-panel :is(.behavior-method, .behavior-settings, .behavior-planner, .behavior-unusual-list) > summary::after { content: '+'; color: var(--gold); font-size: 20px; font-weight: 400; }
+body .behavior-panel :is(.behavior-method, .behavior-settings, .behavior-planner, .behavior-unusual-list)[open] > summary::after { content: '−'; }
+body .behavior-panel :is(button, summary, input):focus-visible { outline: 2px solid var(--gold); outline-offset: 3px; }
+body.stealth-mode .ftx-ap :is(.ap-distribution-visual, .ap-category-rail, .ap-distribution-rest, .ap-comparison) { visibility: hidden; }
+@media(max-width:359px) {
+  body .ap-period-panel { padding: 14px 12px; }
+  body .ap-distribution-visual { grid-template-columns: 108px minmax(0,1fr); gap: 14px; }
+  body .ap-donut { width: 108px; height: 108px; }
+  body .ap-distribution-leader > strong { font-size: 12px; }
+  body .ap-distribution-leader b { font-size: 22px; }
+  body .behavior-panel { padding: 0; }
+  body .behavior-heading { padding: 20px; }
+  body .behavior-heading h3 { font-size: 26px; }
+  body .behavior-insight, body .behavior-scenario { padding: 18px 16px; }
+  body .behavior-metrics > div { padding-inline: 9px; }
+}

diff --git a/index.html b/index.html
@@ -18,7 +18,7 @@
   <script src="./appearance.js?v=41"></script>
   <script src="./cloud.js?v=39"></script>
   <link rel="stylesheet" href="./styles.css?v=22" />
-  <link rel="stylesheet" href="./design-system.css?v=51" />
+  <link rel="stylesheet" href="./design-system.css?v=52" />
 </head>
 <body class="max-w-md mx-auto min-h-screen relative select-none">
 
@@ -1865,7 +1865,7 @@
   <script src="./app.js?v=49"></script>
   <script src="./investment-market.js?v=27"></script>
   <script src="./investments.js?v=27"></script>
-  <script src="./extensions.js?v=51"></script>
+  <script src="./extensions.js?v=52"></script>
   <script src="./quick_add.js?v=19" data-fintex-mod="quick_add.js"></script>
   <script src="./sim_engine.js?v=34" data-fintex-mod="sim_engine.js"></script>
   <script src="./sim_ui.js?v=34" data-fintex-mod="sim_ui.js"></script>
@@ -1877,6 +1877,6 @@
   <script src="./capture-model.js?v=43"></script>
   <script src="./capture.js?v=43"></script>
   <script src="./behavior-model.js?v=44"></script>
-  <script src="./behavior.js?v=44"></script>
+  <script src="./behavior.js?v=52"></script>
 </body>
 </html>

diff --git a/extensions.js b/extensions.js
@@ -151,7 +151,7 @@ window.FINTEX_EXT = {
       return;
     }
     const s = document.createElement('script');
-    s.src = `./${src}?v=${src==='analytics_pro.js'?51:34}`;
+    s.src = `./${src}?v=${src==='analytics_pro.js'?52:34}`;
     s.dataset.fintexMod = src;
     s.async = false;
     s.onload = () => {

diff --git a/README.md b/README.md
@@ -243,3 +243,11 @@ npm run test:ui
 Экран оформлен как финансовый обзор: спокойная типографика, диапазон дат, переключатель периода, вкладки с подчёркиванием, основная сумма и график расходов по дням. График строится только по существующим операциям за выбранные 7/30/90/365 дней; при отсутствии расходов показано пустое состояние, а не демонстрационные значения. Визуальное распределение категорий охватывает все категории, список обзора — четыре крупнейшие. Доходы, разница, средние расходы и оценка остатка используют прежние расчёты; пояснение прогноза раскрывается отдельно.
 
 Списки категорий без вложенных карточек, нейтральные суммы, согласованные цвета диаграмм, обновлённые столбцы недельного ритма и тепловая карта. Категории раскрываются с клавиатуры (Enter/пробел), фокус сохраняется после переключения периода/вкладки/даты. Режим приватности размывает суммы и скрывает новые графики/проценты/текстовые наблюдения. Формулировка «дни без записанных расходов» не подразумевает, что отсутствующие записи доказывают отсутствие покупок. Проверены пустые данные, очень большие суммы и все палитры/режимы на 320px. Сервер, база, доступ и отключённые уведомления не менялись.
+
+### Поведенческие наблюдения и структура расходов — v52
+
+- «Поведенческий интеллект»: отдельная титульная карточка, сводка количества наблюдений/записей/дней, компактные раскрываемые показатели, нумерованные карточки с действиями и основаниями. Методология и ограничения доступны по раскрытию, без стены текста. Открытые и закрытые разделы сохраняются при перерисовке; поведенческая модель и правила доказательности не менялись. Убраны латинские служебные надписи из блока, число-кратность локализовано с запятой.
+- «Структура расходов»: кольцевая диаграмма по всем категориям, крупнейшая категория и её доля, суммы и шкалы долей, остаток за пределами четырёх крупнейших категорий. Диаграмма строится по тем же реальным операциям, пустые данные не подменяются демо.
+- Встроенные коды `food`, `taxi`, `cafe`, `fun`, `subs`, `shop`, `health`, `other`, `income` получают русские подписи, а не выводятся в интерфейсе как английские слова. Коды и финансовые записи не переписываются. Идентичные категории с кодом/русским названием объединяются только в отображении аналитики; пользовательские названия и имена магазинов сохранены.
+- Период расходов: явные 7/30/90/365 дней, начальная и конечная даты с годом, включение сегодняшнего дня, отдельное объяснение равного предыдущего окна с его датами и суммой. Это скользящие окна, не календарные месяцы/кварталы. Поведенческий блок явно показывает своё независимое окно до 183 дней.
+- Приватность скрывает новые диаграммы, доли и сравнение; сохранены шесть режимов оформления, клавиатура и адаптация 320px. Сервер, база, пароли и отключённые уведомления не менялись.
